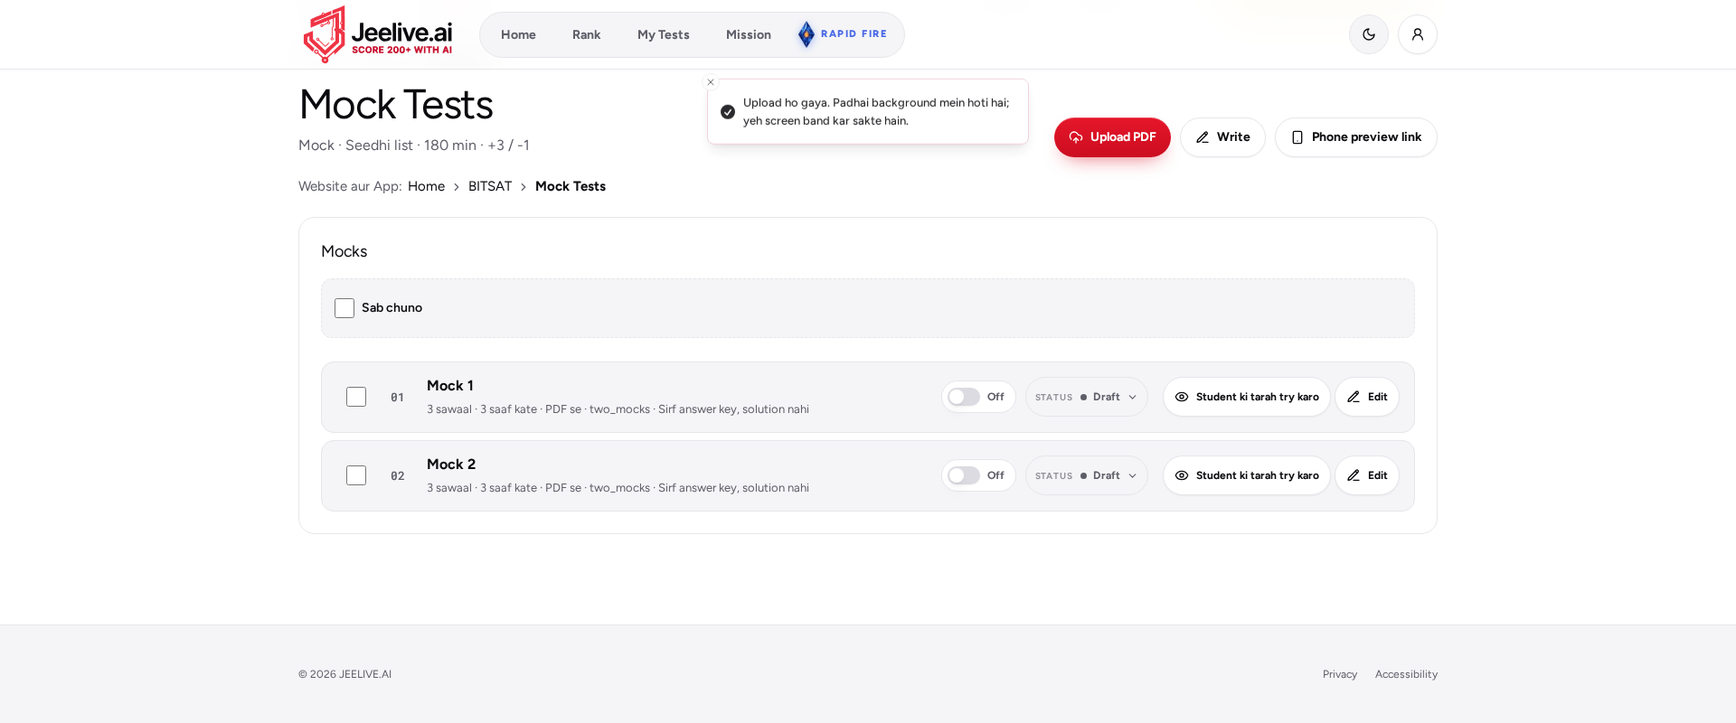
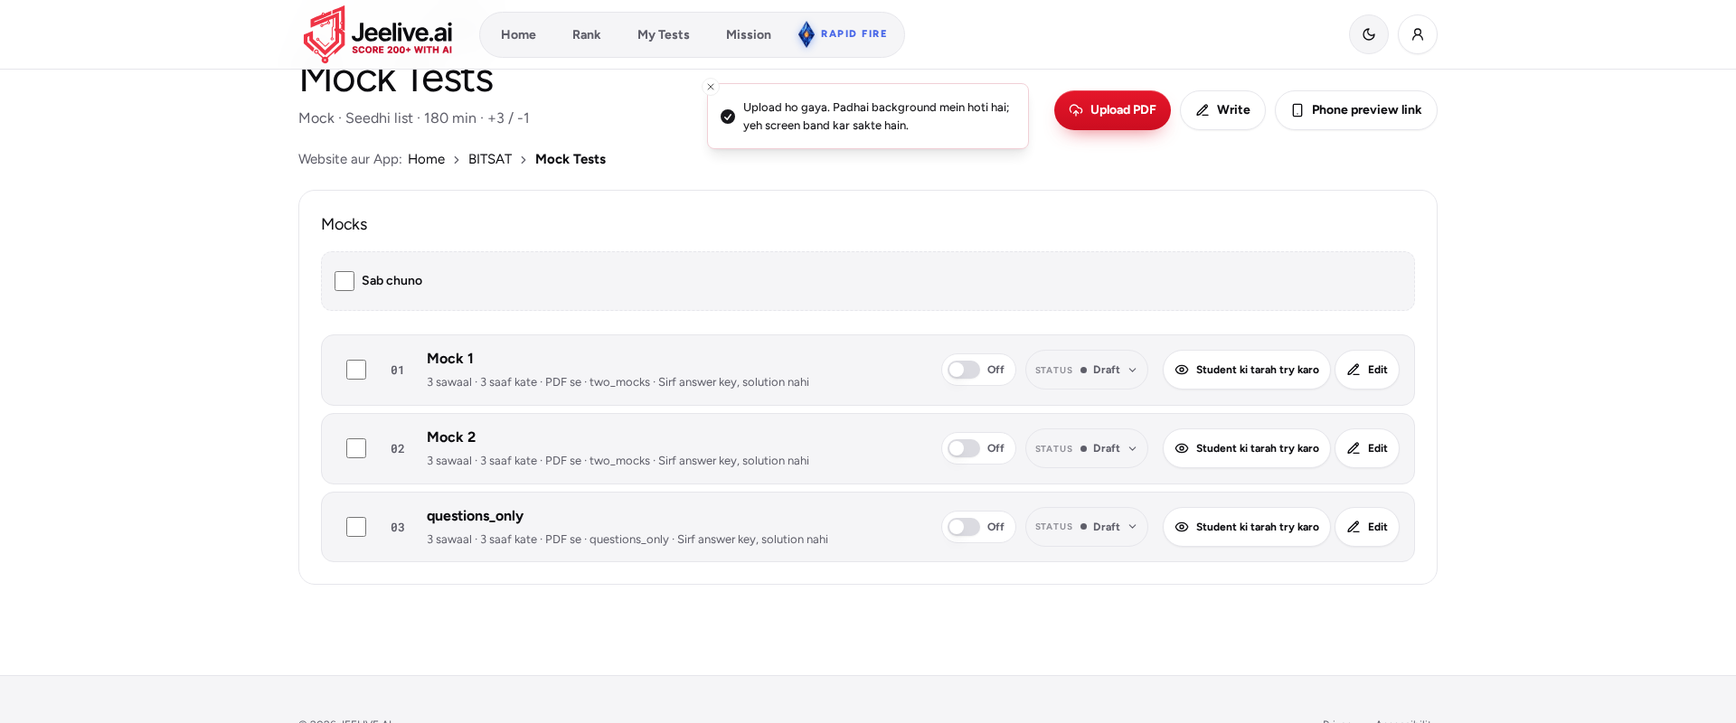
## Upload PDF mein "PDF chuniye" button laga diya (sirf preview mein; jeelive.ai par deploy ke baad aayega)
**Upload wali dikkat**
- **Wajah:** PDF chunne wala input dashed box ke upar chhupa hua tha. Isliye kai baar tap karne par bhi phone ya computer ka file picker nahi khulta tha.
- **Ab kya hai:** Main PDF, Answer key aur Solutions, teeno box mein ek saaf laal button "PDF chuniye" hai. File chunne ke baad button "Badlo" ho jata hai. Box ke text par tap karne se bhi picker khulta hai. Dialog band karne wala X ab 44 px ka hai.
- **Testing:** Maine test copy par khud chalaya: 12/12 paas. Testing agent ne computer aur phone dono par check kiya (iteration_215): aapke maange saare kaam theek chale.
- **"Slow" ke baare mein:** Live server theek hai. Aapki PDF 17:45 UTC par sach mein poori upload ho gayi thi (82 mein se 82 hisse) aur ab padhi ja rahi hai. Problem server ki nahi, sirf file picker ki thi.
- Live par yeh fix tabhi aayega jab aap deploy karenge.

**Library delete: ek buri khabar**
- 23 Nov ko 17:38 UTC par Library se lagbhag 222 test aur 7 upload hamesha ke liye delete hue. Inme **Rapid Fire bhi tha.** App ke andar se inhe wapas nahi la sakte.
- **Supabase saaf nahi hua.** Delete sirf database ki entries hatata hai. Original PDF aur pictures Supabase mein waise hi hain.
- **Jo bache hain:** 30 verified JEE Main PYQ test bilkul safe hain. Jin students ne woh test diye the, unke score bhi bache hain.
- **Yeh delete karna zaroori nahi tha.** Naya picture tareeka purani save hui pictures ke saath hi chalta hai, kuch dobara upload nahi karna padta.
[…]

diff --git a/frontend/src/master.css b/frontend/src/master.css
@@ -334,3 +334,6 @@ a.master-attention-item:hover{transform:translateY(-1px);border-color:var(--bran
  .student-row-actions{width:100%}
  .storage-pop{width:calc(100vw - 24px)}
 }
+/* Dialog close X in Super Admin: a 44 px target, the X itself stays the same size and place */
+.admin-dialog [data-testid=dialog-close],.owner-pin-reset-dialog [data-testid=dialog-close]{display:inline-flex;align-items:center;justify-content:center;min-width:var(--touch-target);min-height:var(--touch-target);right:2px;top:2px;border-radius:999px}
+.admin-dialog [data-testid=dialog-close]:hover,.owner-pin-reset-dialog [data-testid=dialog-close]:hover{background:var(--surface-alt)}

diff --git a/backend/tests/ui_upload_picker224.py b/backend/tests/ui_upload_picker224.py
@@ -1,0 +1,134 @@
+"""TEST-ONLY iteration 224/215: Upload PDF dialog file picker fix ('PDF chuniye' button) via local Playwright against the preview
+frontend with /api routed to the isolated bridge tests/master_bridge181.py (127.0.0.1:8770, cookies in /tmp/uibridge/bridge.json).
+Run: cd /app/backend && BRIDGE_OUT=/tmp/uibridge BRIDGE_PORT=8770 python tests/ui_upload_picker224.py
+"""
+import asyncio, os, sys, time
+from pathlib import Path
+os.environ.setdefault('BRIDGE_OUT', '/tmp/uibridge'); os.environ.setdefault('BRIDGE_PORT', '8770')
+sys.path.insert(0, str(Path(__file__).resolve().parent))
+from playwright.async_api import async_playwright  # noqa: E402
+from ui_cut210 import open_as, BASE, say, RESULT  # noqa: E402
+
+D = '/tmp/uibridge/'
+TYPE = '/super-admin/exam/bitsat/bitsat:mocks'
+SS = '/app/.screenshots/ui224'; os.makedirs(SS, exist_ok=True)
+
+
+async def chooser(page, target, label, touch):
+    try:
+        async with page.expect_file_chooser(timeout=3000) as fc:
+            if touch: await page.locator(target).tap()
+            else: await page.locator(target).click()
+        f = await fc.value
+        say(f'{label}: file chooser opens', True); return f
+    except Exception as e:
+        say(f'{label}: file chooser opens', False, repr(e)[:200]); return None
+
+
+async def open_dialog(page, size):
+    t = time.time(); await page.click('[data-testid=type-upload-pdf]'); await page.wait_for_selector('[data-testid=upload-dialog]')
+    dt = round(time.time() - t, 2); say(f'{size}: dialog opens < 2s', dt < 2, dt); print(f'   dialog open {dt}s')
+    await page.wait_for_timeout(500)
+
+
+async def sizes(page, size):
+    # Buttons >= 44x44 and text vs button overlap
+    info = await page.evaluate("""() => { const out = [];
+      for (const id of ['upload-main','upload-key','upload-solutions']) { const box = document.querySelector(`[data-testid=${id}]`); if (!box) continue;
+        const b = box.querySelector(`[data-testid=${id}-pick]`).getBoundingClientRect(); const l = box.querySelector('label').getBoundingClientRect();
+        const s = getComputedStyle(box.querySelector(`[data-testid=${id}-pick]`));
+        out.push({id, bw: b.width, bh: b.height, overlap: l.right > b.left + 0.5 && l.left < b.right && l.bottom > b.top && l.top < b.bottom, bg: s.backgroundColor, color: s.color, text: box.querySelector(`[data-testid=${id}-pick]`).innerText}); }
+      const small = [...document.querySelectorAll('[data-testid=upload-dialog] button')].filter(e => e.offsetParent).map(e => [e.dataset.testid || e.getAttribute('aria-label') || e.innerText, Math.round(e.getBoundingClientRect().width), Math.round(e.getBoundingClientRect().height)]).filter(x => x[1] < 44 || x[2] < 44);
+      const dlg = document.querySelector('[data-testid=upload-dialog]'); return {out, small, dsw: dlg.scrollWidth, dcw: dlg.clientWidth, sw: document.documentElement.scrollWidth, vw: document.documentElement.clientWidth}; }""")
+    for o in info['out']:
+        say(f"{size}: {o['id']}-pick visible text 'PDF chuniye'", 'PDF chuniye' in o['text'], o)
+        say(f"{size}: {o['id']}-pick >= 44x44", o['bw'] >= 44 and o['bh'] >= 44, (o['bw'], o['bh']))
+        say(f"{size}: {o['id']} label does not overlap button", not o['overlap'])
+        print('   colors', o['id'], o['bg'], o['color'])
+    say(f'{size}: all dialog buttons >= 44px', not info['small'], info['small'])
+    say(f'{size}: no horizontal scroll (page/dialog)', info['sw'] <= info['vw'] + 1 and info['dsw'] <= info['dcw'] + 1, info)
+
+
+async def walk(pw, size):
+    br, page, bad, logs = await open_as(pw, 'owner', size); touch = size == 'mob'
+    try:
+        await page.goto(BASE + TYPE); await page.wait_for_selector('[data-testid=type-upload-pdf]', timeout=25000)
+        await open_dialog(page, size)
+        await page.screenshot(path=f'{SS}/{size}_dialog.png', quality=40, type='jpeg')
+        await sizes(page, size)
+        # 1. every pick button + label opens the chooser
+        for tid in ('upload-main', 'upload-key', 'upload-solutions'):
+            await chooser(page, f'[data-testid={tid}-pick]', f'{size} {tid}-pick', touch)
+        await chooser(page, '[data-testid=upload-main] label', f'{size} main label text', touch)
+        # 2. pick one file -> name/size, has-file, Badlo, X
+        fc = await chooser(page, '[data-testid=upload-main-pick]', f'{size} main pick (again)', touch)
+        if fc: await fc.set_files(D + 'two_mocks.pdf')
+        await page.wait_for_selector('[data-testid=upload-main].has-file', timeout=5000)
+        txt = await page.inner_text('[data-testid=upload-main]')
+        say(f'{size}: name + MB shown', 'two_mocks.pdf' in txt and 'MB' in txt, txt)
+        say(f'{size}: button reads Badlo', 'Badlo' in await page.inner_text('[data-testid=upload-main-pick]'))
+        say(f'{size}: X remove visible', await page.is_visible('[data-testid=upload-main-remove]'))
+        await page.screenshot(path=f'{SS}/{size}_picked.png', quality=40, type='jpeg')
+        await sizes(page, size + ' picked')
+        if touch: await page.locator('[data-testid=upload-main-remove]').tap()
+        else: await page.click('[data-testid=upload-main-remove]')
+        await page.wait_for_timeout(300)
+        say(f'{size}: X clears file', not await page.locator('[data-testid=upload-main].has-file').count() and 'PDF chuniye' in await page.inner_text('[data-testid=upload-main-pick]'))
+        # 3. two files -> batch
+        fc = await chooser(page, '[data-testid=upload-main-pick]', f'{size} main pick (batch)', touch)
+        if fc:
+            say(f'{size}: chooser allows multiple', fc.is_multiple(), '')
+            await fc.set_files([D + 'two_mocks.pdf', D + 'single_paper.pdf'])
+        await page.wait_for_timeout(600)
+        rows = await page.locator('[data-testid^=upload-batch-]:not([data-testid=upload-batch-clear]):not([data-testid=upload-batch-note])').count()
+        say(f'{size}: batch list shows', rows >= 2 and await page.is_visible('[data-testid=upload-batch-clear]'), rows)
+        await page.screenshot(path=f'{SS}/{size}_batch.png', quality=40, type='jpeg')
+        await page.click('[data-testid=upload-batch-clear]'); await page.wait_for_timeout(400)
+        say(f'{size}: Sab hatao clears batch', not await page.locator('[data-testid=upload-batch-clear]').count() and await page.is_visible('[data-testid=upload-key-pick]'))
+        # 4. Cancel closes
+        await page.click('[data-testid=upload-cancel]')
+        await page.wait_for_selector('[data-testid=upload-dialog]', state='detached', timeout=4000); say(f'{size}: Cancel closes', True)
+        if size == 'desk':
+            # 5. full upload two_mocks.pdf, watch for Roko
+            before = await page.inner_text('[data-testid=type-uploads]') if await page.locator('[data-testid=type-uploads]').count() else ''
+            await open_dialog(page, size + ' re-open')
+            fc = await chooser(page, '[data-testid=upload-main-pick]', f'{size} pick for upload', touch); await fc.set_files(D + 'two_mocks.pdf')
+            await page.check('[data-testid=upload-rights]')
+            t = time.time(); await page.click('[data-testid=upload-send]')
+            try:
+                await page.wait_for_selector('[data-testid=upload-pause]', timeout=3000); say(f'{size}: Roko shown while uploading', True)
+            except Exception as e:
+                say(f'{size}: Roko shown while uploading', False, 'not seen within 3s (upload may be too fast) ' + repr(e)[:80])
+            await page.wait_for_selector('[data-testid=upload-dialog]', state='detached', timeout=60000)
+            dt = round(time.time() - t, 2); say(f'{size}: upload completes, dialog closes', True); print(f'   upload took {dt}s')
+            toast = await page.locator('[data-sonner-toast]').all_inner_texts(); say(f'{size}: success toast', any('Upload ho gaya' in x for x in toast), toast)
+            await page.wait_for_timeout(2500)
+            after = await page.inner_text('[data-testid=type-uploads]') if await page.locator('[data-testid=type-uploads]').count() else ''
+            say(f'{size}: uploads panel shows new row', 'two_mocks' in after, after[:300]); print('   before uploads:', before[:150].replace('\n', ' | '))
+            await page.screenshot(path=f'{SS}/{size}_after_upload.png', quality=40, type='jpeg')
+            # 6. questions + answer key merge
+            await open_dialog(page, size + ' merge')
+            await (await chooser(page, '[data-testid=upload-main-pick]', 'merge main', False)).set_files(D + 'questions_only.pdf')
+            await (await chooser(page, '[data-testid=upload-key-pick]', 'merge key', False)).set_files(D + 'answer_key_only.pdf')
+            await page.wait_for_selector('[data-testid=upload-key].has-file', timeout=4000)
+            say('key box shows Badlo', 'Badlo' in await page.inner_text('[data-testid=upload-key-pick]'))
+            await page.check('[data-testid=upload-rights]'); t = time.time(); await page.click('[data-testid=upload-send]')
+            await page.wait_for_selector('[data-testid=upload-dialog]', state='detached', timeout=60000)
+            print(f'   merge upload took {time.time() - t:.2f}s')
+            toast = await page.locator('[data-sonner-toast]').all_inner_texts(); say('merge: success, no error toast', any('Upload ho gaya' in x for x in toast), toast)
+        say(f'{size}: no API 5xx', not [b for b in bad if b[0] >= 500], bad[:6]); print('   4xx:', bad[:6], 'console', logs[:4])
+    except Exception as e:
+        say(f'{size}: walk', False, repr(e)[:300]); await page.screenshot(path=f'{SS}/{size}_error.png', quality=40, type='jpeg')
+    finally:
+        await br.close()
+
+
+async def main():
+    async with async_playwright() as pw:
+        for size in ('desk', 'mob'):
+            await walk(pw, size)
+    f = [n for n, ok in RESULT if not ok]
+    print(f'TOTAL {len(RESULT)} PASS {len(RESULT) - len(f)} FAIL {len(f)}'); [print('  FAILED', n) for n in f]
+
+if __name__ == '__main__':
+    asyncio.run(main())

diff --git a/deployer-agent-docs/RCA_15dbf4ec-8f66-4111-ab0e-498613f741c4.MD b/deployer-agent-docs/RCA_15dbf4ec-8f66-4111-ab0e-498613f741c4.MD
@@ -1,37 +1,63 @@
-# RCA — JEELIVE.AI "new picture answers not live"
+# RCA — jeelive.ai upload "slow / not accepting PDF" + Library delete concern
 
-## Scope
-Read-only investigation. No redeploy, no secret change. Deployment `campus-search-debug` (04241398-cdb1-4ca5-8232-874011d24cc3), live at https://jeelive.ai (Cloudflare frontend + FastAPI backend, tier_4).
+Scope: read-only production diagnosis after the 2026-11-23 17:24 UTC redeploy (active run `15dbf4ec-8f66-4111-ab0e-498613f741c4`, tier_4 Elite, Cloudflare frontend + k8s backend, DB `tejas-route2-test_database`). No redeploy, no secret change, no DB write performed.
 
-## Verdict
-**The production deployment is correct and healthy. The new picture-answers code and config ARE live on the backend.** No deployment-, build-, secret- or log-level problem was found. If the partner still sees the old answers, the cause is downstream of the deployment (client/CDN cache or test method), not the serving build.
+## TL;DR
+- The backend upload pipeline is **healthy**. One full PDF upload **completed successfully** after the deploy (POST books → 82/82 part PUTs → complete, all HTTP 200) and the file is in Supabase.
+- "Most of the time it doesn't even go into the mode to select the PDF" = the **frontend file-chooser** (invisible `<input type=file>` over the dashed box) not reliably opening the OS picker. This is a **frontend/code** issue for E1 — not a backend/deploy fault.
+- **Supabase was NOT cleared by the Library delete.** Code proves it; the originals' bytes remain.
+- The Library deletions were real and **permanent** (not archival): ~222 tests + 7 uploads removed, incl. anything named "Rapid Fire". The **30 verified JEE Main PYQ sets are intact**.
 
-## Evidence
+## 1. Upload / admin endpoint status & latency (since 17:24 UTC)
+From backend access logs for run 15dbf4ec:
+- `POST /api/admin/books` → **200**
+- `PUT /api/admin/books/eed94a04…/parts/0..81` → **all 82 parts 200** (4-wide parallel, as designed)
+- `POST /api/admin/books/eed94a04…/complete` → **200**
+- `GET /api/admin/storage/health` → 200 (continuous poll; one 401 was my own unauthenticated probe, 451 ms)
+- `GET /api/admin/machine/status` → 200
+- `GET /api/admin/master/types/jee-main:chapters/mocks` → 200
+- One stray `GET /api/admin/books/9983…/mocks/857…/problems` → 404 (stale reference to an already-deleted book's mock; harmless)
 
-### 1. Latest deploy succeeded and is the one serving traffic
-`describe_deployment_state` recent_runs, both of today's deploys succeeded:
-- **Active run `15dbf4ec-8f66-4111-ab0e-498613f741c4`** — type=redeploy, created **2026-11-23T17:18:02Z**, completed **17:24:07Z**, status **success**. This is `active_run_id` → it is the run currently serving jeelive.ai. Image `customers-app-4@sha256:fc05cc7...3c67`.
-- Earlier run `b3658c8d...` — type=replacement, 17:04:02Z → 17:10:11Z, success (the ~17:05 deploy).
+No 5xx, no tracebacks, no timeouts on the upload flow. (uvicorn access logs don't carry per-request latency; storage/health probe responded in ~451 ms.) **Conclusion: the backend accepted the PDF end-to-end.**
 
-The 17:18 redeploy pulled source AFTER commit 14b2b76 (17:12:59Z), so it captured that commit.
+## 2. Pod health / CPU / memory / jobs
+- 2 replicas Running, Ready, `restart_count=0`. **No OOMKilled, no exit 137, no throttling/eviction events.** Tier_4 (CPU 2/limit 4, mem 8Gi/limit 16Gi).
+- Only anomaly: brief `Startup probe 503` + nginx "connection refused to 127.0.0.1:8001" at 17:23:36–17:23:49 while uvicorn was still binding at boot — normal, self-resolved. Also initial `FailedScheduling` (cluster CPU/mem pressure) that cleared once Karpenter scaled nodes; pods came up by 17:22:5x.
+- `tejas_jobs`: **every job status = "done"**; kinds present = class_stats, cohort, grade only. **Zero `book_step`, zero `ai_solution`, zero queued/running/failed.** The worker is idle — there is **no job backlog saturating CPU**. (After the owner deleted everything, no unpublished PDFs remained to re-read; the single current book is being read in-process, `state:"reading"`.)
+- The lone book is a 2527-page / 42.8 MB PDF being read with `reader_version:7`. A large in-process read can make admin polling feel sluggish while it runs, but there is no CPU-throttle/OOM evidence.
 
-### 2. The live build contains the 14b2b76 change (default '*')
-Read the active run's pulled source in an eph sandbox. `backend/tejas/pictures.py` line 12 is exactly:
+## 3. Library deletion — what actually happened
+6 `Deleted from Library` audit rows, all actor `edc17534-b756-4b0b-9734-7e1f9a9d3b97` (owner), between **17:38:13 and 17:38:36 UTC on 2026-11-23** (i.e. ~14 min after the redeploy):
+- "50 tests, 0 uploads", "0 tests, 0 uploads", "94 tests, 3 uploads", "0 tests, 0 uploads", "78 tests, 3 uploads", "0 tests, 1 uploads" → ≈ **222 tests + 7 uploads** permanently deleted.
+
+Current counts:
+- `tejas_sets`: **30 total, all `status:published`, 0 archived** → Library is now empty.
+- All 30 are `test_kind:"pyq"`, exam "JEE Main" → **the 30 verified JEE Main PYQ sets survived** (protected by the GUARD in library.py: verified PYQ never leaves).
+- `tejas_books`: **1 total, 0 archived** (the fresh chemistry re-upload).
+- **Rapid Fire: not present** — no set titled Rapid Fire, no non-PYQ set, no `tejas_book_mocks` labelled rapid. It was part of the Library content that was permanently deleted.
+
+Important: Library **delete** (`delete_sets`/`delete_uploads`) permanently removes sets/uploads from the DB — unlike **archive** (move-to-Library), delete has no restore. Student score lines are preserved (attempts flagged `set_deleted`, not removed).
+
+## 4. Did Library delete touch Supabase? — NO
+Confirmed from production source (`backend/tejas/library.py`):
 ```
-_setting = os.environ.get('PICTURE_PILOT_PHONES', '*').strip()
-EVERYONE = _setting == '*'
+async def drop_source(name, key, sid):
+    """An upload's records leave the database. The platform file store keeps the original file bytes (it has no delete)."""
+    if name == 'tejas_books':
+        for part in BOOK_PARTS: await db[part].delete_many({'book_id': sid})
+        await db.tejas_jobs.delete_many({'set_id': sid, 'kind': 'book_step', 'status': {'$ne': 'running'}})
+    await db[name].delete_one({key: sid})
 ```
-Module docstring: "On for every student by default." → confirms the new default `'*'` (picture answers for every student) is the code that was built and deployed. The old `'7004186276'` default only appears in `backend/tests/pictures_iso220.py` as a per-test override, not in the live module.
-(Note: source archive excludes `.git`, so the commit SHA cannot be read directly — but the file CONTENT matches commit 14b2b76's change byte-for-byte, so 14b2b76-or-later is in the live build.)
+- `drop_source` only deletes **Mongo** records. There is **no storage/Supabase delete** anywhere in `library.py` or `tejas_storage.py` (`tejas_storage.py` has no delete function; the only `.remove()` is on a local in-memory `_source_cache` list). The single DELETE-to-storage in the repo is in a **test** file (`tests/storage_real_qa216.py`), not runtime code.
+- No Supabase DELETE appears in logs (note: backend access logs are inbound-only; the authoritative evidence is the code path above).
+- Corroboration: the owner deleted the chemistry upload at 17:38 (audit "0 tests, 1 uploads", resource `eed94a04…`), then **re-uploaded the identical file at 17:45** (same sha256-derived id `eed94a04…`) which completed 200 — proving the storage path is intact.
 
-### 3. No PICTURE_PILOT_PHONES secret exists in production
-`list_secrets` on the active run — the full key list does NOT contain `PICTURE_PILOT_PHONES`. So nothing overrides the `'*'` default; `EVERYONE` evaluates True → feature enabled for all students. (Keys present: ADMIN_EMAIL, ADMIN_PASSWORD, CORS_ORIGINS, DB_NAME, EMERGENT_LLM_KEY, ENABLE_HEALTH_CHECK, FRONTEND_URL, INTEGRATION_PROXY_URL, JEELIVE_APP_API, JEELIVE_SITE_URL, JWT_SECRET, MEDIA_CDN_URL [empty], MONGO_URL, REACT_APP_BACKEND_URL, SUPABASE_SECRET_KEY, SUPABASE_URL, WDS_SOCKET_PORT, WEBHOOK_CRON_SECRET.)
+**Conclusion:** Deleting from the Library removed only database records. Your Supabase original PDF bytes were not deleted.
 
-### 4. pyoxipng 9.0.1 installed in the build
-`requirements.txt` line 122 pins `pyoxipng==9.0.1`. Build `15dbf4ec` build_state=**SUCCEEDED**; the pip "Successfully installed …" line includes pyoxipng (matched on grep) and pip exited clean with no resolution error.
+## Root cause of the reported symptom
+1. "Won't go into mode to select PDF / not accepting": frontend file-chooser reliability — the invisible `<input type=file>` overlaid on the dashed box isn't consistently receiving the click / opening the picker (pointer-events / z-index / re-render after the Hinglish-message + 100 MB-limit change). Backend proves a full upload succeeded once, so the gate is in the browser UI, not the API.
+2. Perceived slowness: large in-process PDF read sharing pod CPU with admin polling; no resource exhaustion found.
 
-### 5. No picture/media/asset errors in production logs
-`fetch_app_logs` since 17:00 UTC (1440-min window, filter pictures|media|asset|traceback|500|Error|Exception) returned only transient boot-time noise: one `connect() failed (111: Connection refused)` to the backend at 17:23:41 and two `GET /health 404` during startup — normal rollout warmup. **No 5xx and no tracebacks** from `tejas/pictures.py`, `tejas/media.py`, or the `/api/attempts/.../asset`, `/assets/links`, `/assets/pack` routes.
-
-## Conclusion
-Everything under the deployment pipeline's control is correct: the right commit content is live, the default is `'*'`, no override secret exists, the dependency installed, and the app serves with no related errors. The feature is live backend-side. The "not live" report points to something the deployment cannot see — most likely a stale cached frontend bundle / CDN cache, or the check was done without a fresh logged-in student session. Recommend verifying via a hard-refresh / incognito logged-in student session and capturing the actual failing request + status if it persists.
+## Recommended fixes
+- **Code (E1):** harden the Upload PDF dialog file input — ensure the invisible `<input type=file>` is the actual click target (label-for/ref click, pointer-events, z-index above the dashed box), resets between attempts, and shows progress. Reproduce in the frontend; the FARM backend is not at fault.
+- **User:** the ~222 Library tests + 7 uploads (including Rapid Fire) were **permanently deleted** (delete, not archive) and cannot be auto-restored; decide whether to re-upload / re-create Rapid Fire. Your Supabase originals and the 30 JEE Main PYQ sets are safe. For the upload UI, hard-refresh / incognito to clear any stale bundle and retry.

diff --git a/memory/CHANGELOG.md b/memory/CHANGELOG.md
@@ -1,3 +1,8 @@
+## 2026-11-23 (night) — Upload PDF dialog: visible "PDF chuniye" button (preview only, needs deploy)
+- Owner on jeelive.ai: picker often did not open. UploadDialog PdfBox now has a real button (data-testid upload-main-pick / upload-key-pick / upload-solutions-pick) that clicks a visually hidden input (.master-pdf-input); label tap also opens it; button says "Badlo" after a pick. Dialog close X is 44x44 in admin dialogs.
+- Tests: tests/ui_upload_repro223.py 12/12 (bridge 181); testing agent iteration_215: all requested flows pass.
+- Production facts (deployer, 23 Nov): upload backend healthy (82-part upload 200 at 17:45 UTC, book eed94a04 reading). Owner deleted ~222 tests + 7 uploads incl. Rapid Fire from Library at 17:38 UTC (permanent Mongo delete). Supabase files untouched (no storage delete exists in code). 30 verified JEE Main PYQ intact. Emergent support says production Mongo has 7-day point-in-time recovery via support@emergent.sh (unverified).
+
 ## 2026-11-23 — Super Admin Phase 1 finished: Block/Unblock, machine panel, re-read progress, Hinglish, 44 px / 390 px, noindex, 409 lock (preview only)
 - Screens: AdminStudents (Band karo / Chalu karo), MachinePanel in StorageBadge, MockList/MasterType/MasterHome/FixList re-read lines, Hinglish copy, master.css touch + mobile rules, useNoIndex in AdminWorkspace + Auth, robots.txt.
 - Server: master.mock_status refuses Live/Schedule while re-reading; book_worker.step 409 -> job waits (jobs.BUSY_WAITS=90); Hinglish upload messages; book_view filename guard; Supabase not-set message Hinglish.

diff --git a/memory/PRD.md b/memory/PRD.md
@@ -1,3 +1,7 @@
+## Status — 2026-11-23 (night): Upload PDF picker fix in PREVIEW (not deployed)
+- Visible "PDF chuniye" button in every PDF box of the Upload PDF dialog; testing agent iteration_215 pass. Needs owner deploy.
+- Owner permanently deleted ~222 Library tests + 7 uploads incl. Rapid Fire on production (17:38 UTC). Supabase bytes kept. Recovery option: Emergent support point-in-time restore (support@emergent.sh, deployment 04241398-cdb1-4ca5-8232-874011d24cc3) — owner's decision.
+
 ## Status — 2026-11-23 (later): Super Admin re-audit Phase 1 BUILT and TESTED (preview only, NOT deployed). Report: memory/AUDIT_2026-11-22.md (Roman Hinglish)
 - All 8 Phase 1 items now have server + screen: 100 MB on every upload screen; student Block/Unblock (Students page, confirm dialog); machine status panel inside the storage badge popover (red dot, cron, failed jobs, stuck/failed PDFs with "Dobara chalao", disk); "dobara padhi ja rahi hai · X/Y page" on mock rows, upload rows, Master attention line and Fix list, with Live/Schedule blocked in UI and refused by POST /api/admin/master/status while a PDF is being re-read.
 - Roman Hinglish on Master/exam/type/mock list/Fix/Students/Team/Library/dialogs. Still English: HeldFixer, AllQuestions, ChapterSplit, WriteEditor, Library inner lists, book repair screen, most server toasts.
